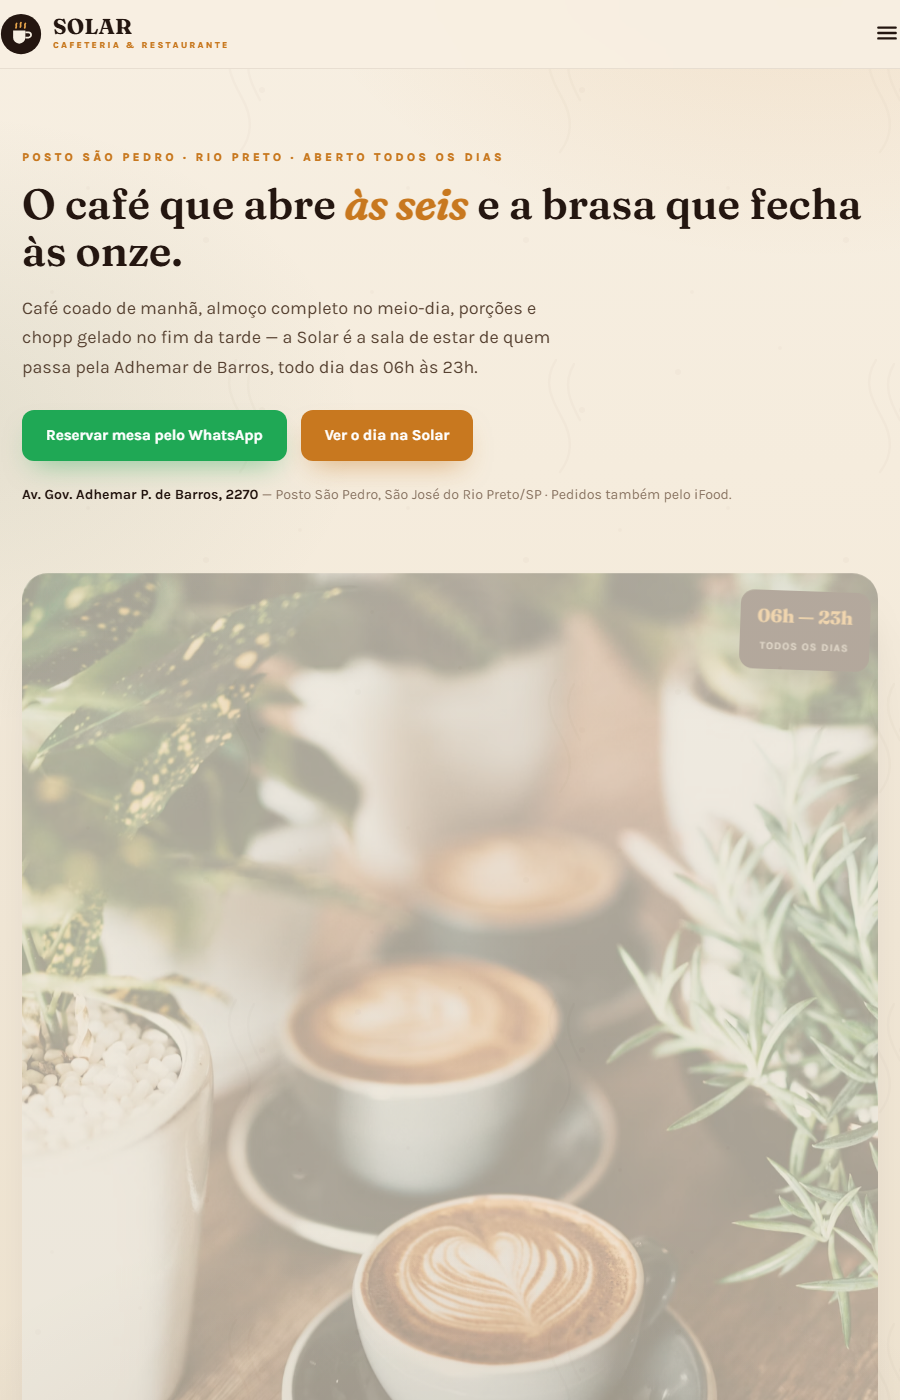
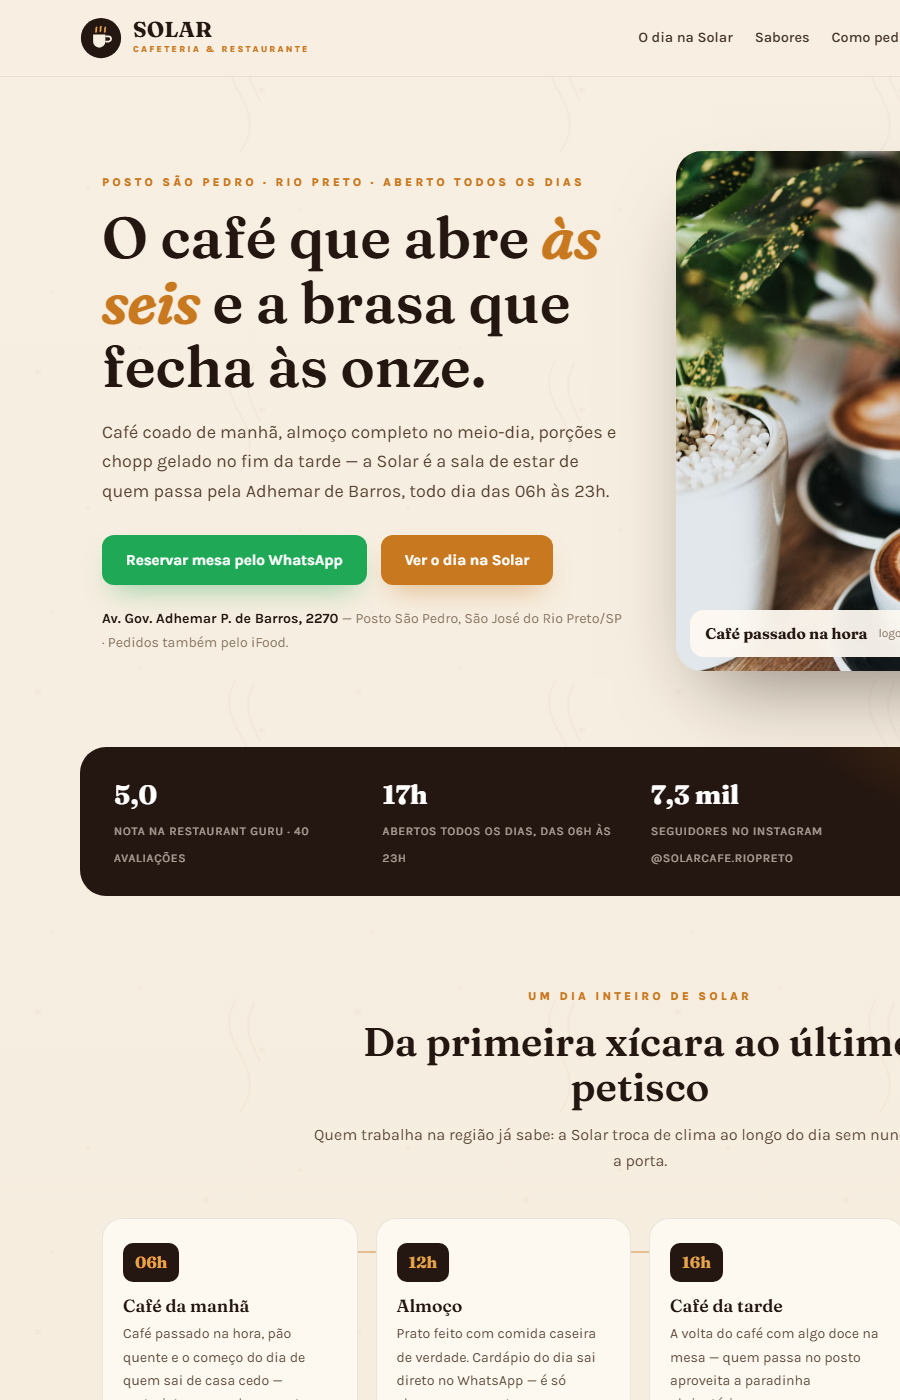
protos: publica sa-yakiniku,solar-cafeteria (gate R5: 7/10 8.5/10 )

diff --git a/p/solar-cafeteria/index.html b/p/solar-cafeteria/index.html
@@ -173,6 +173,7 @@ footer{padding:56px 0 40px;border-top:1px solid rgba(36,22,16,.1);margin-top:80p
 .aviso{background:rgba(36,22,16,.06);border:1px dashed rgba(36,22,16,.25);border-radius:12px;padding:12px 16px;font-size:.82rem;color:var(--suave);text-align:center}
 @media(max-width:860px){.foot-grid{grid-template-columns:1fr}}
 </style>
+<noscript><style>[data-reveal]{opacity:1!important;transform:none!important}</style></noscript>
 </head>
 <body>
 <div class="bg-layers"></div>
@@ -281,7 +282,7 @@ footer{padding:56px 0 40px;border-top:1px solid rgba(36,22,16,.1);margin-top:80p
 
 <section id="casa">
   <div class="container destaque">
-    <div class="foto" data-reveal><img src="https://upload.wikimedia.org/wikipedia/commons/thumb/0/03/Coffee_preparation_in_a_modern_cafe_with_steaming_equipment_and_skilled_barista_at_work_during_the_morning_rush_hour.jpg/1280px-Coffee_preparation_in_a_modern_cafe_with_steaming_equipment_and_skilled_barista_at_work_during_the_morning_rush_hour.jpg" alt="Balcão da cafeteria com máquina de espresso em funcionamento" loading="lazy"></div>
+    <div class="foto" data-reveal><img src="https://images.unsplash.com/photo-1445116572660-236099ec97a0?q=80&w=1200&auto=format&fit=crop" alt="Mesa de cafeteria junto à janela com cafeteira francesa, xícaras e plantas" loading="lazy"></div>
     <div>
       <span class="kicker">Mais que uma parada</span>
       <h2>O posto é de passagem. A Solar é de ficar.</h2>
@@ -297,7 +298,7 @@ footer{padding:56px 0 40px;border-top:1px solid rgba(36,22,16,.1);margin-top:80p
   </div>
 </section>
 
-<section>
+<section id="pedir">
   <div class="container">
     <div class="sec-head center">
       <span class="kicker">Simples assim</span>
@@ -319,8 +320,8 @@ footer{padding:56px 0 40px;border-top:1px solid rgba(36,22,16,.1);margin-top:80p
     </div>
     <div class="gal">
       <figure data-reveal><img src="https://images.unsplash.com/photo-1495474472287-4d71bcdd2085?q=80&w=900&auto=format&fit=crop" alt="Três mãos brindando com xícaras de café sobre mesa de madeira" loading="lazy"></figure>
-      <figure data-reveal><img src="https://images.unsplash.com/photo-1509042239860-f550ce710b93?q=80&w=900&auto=format&fit=crop" alt="Cafés com latte art sobre mesa com plantas" loading="lazy"></figure>
-      <figure data-reveal><img src="https://images.unsplash.com/photo-1544025162-d76694265947?q=80&w=900&auto=format&fit=crop" alt="Tábua de costela grelhada com fritas servida no bar" loading="lazy"></figure>
+      <figure data-reveal><img src="https://images.unsplash.com/photo-1484723091739-30a097e8f929?q=80&w=900&auto=format&fit=crop" alt="Torra francesa com banana, mirtilos e açúcar de confeiteiro no prato escuro" loading="lazy"></figure>
+      <figure data-reveal><img src="https://images.unsplash.com/photo-1555939594-58d7cb561ad1?q=80&w=900&auto=format&fit=crop" alt="Tábua com espetinhos de carne grelhada, legumes assados e molhos para dividir" loading="lazy"></figure>
     </div>
     <p class="illus" style="text-align:center;margin-top:14px">Fotos ilustrativas — substituídas por imagens reais da casa na versão final.</p>
   </div>
@@ -335,7 +336,7 @@ footer{padding:56px 0 40px;border-top:1px solid rgba(36,22,16,.1);margin-top:80p
 </div>
 </main>
 
-<footer id="pedir">
+<footer id="contato">
   <div class="container">
     <div class="foot-grid">
       <div>

diff --git a/p/sa-yakiniku/index.html b/p/sa-yakiniku/index.html
@@ -171,6 +171,7 @@ footer{border-top:1px solid rgba(217,164,65,.16);background:var(--tinta);padding
 [data-reveal]{opacity:0;transform:translateY(26px);transition:opacity .7s ease,transform .7s ease}
 [data-reveal].in{opacity:1;transform:none}
 </style>
+<noscript><style>[data-reveal]{opacity:1!important;transform:none!important}</style></noscript>
 </head>
 <body id="topo">
 <div class="bg-layers"></div><div class="bg-ondas"></div>
@@ -268,7 +269,7 @@ footer{border-top:1px solid rgba(217,164,65,.16);background:var(--tinta);padding
     <div class="fondue-txt" data-reveal>
       <span class="kicker">Temporada de outono/inverno</span>
       <h2>E quando esfria, entra o <em>fondue</em></h2>
-      <p style="color:var(--nublado);margin-top:12px">O menu sazonal de fondue do S.A Yakiniku virou manchete na imprensa gastronômica de Rio Preto — um programa a dois que lota mesa no fim de ano.</p>
+      <p style="color:var(--nublado);margin-top:12px">Na temporada de frio, o fondue do S.A vira programa a dois — e lota mesa.</p>
       <div class="preco">Fondue por <b>R$ 99,99</b></div>
       <p style="color:var(--nublado);margin-bottom:18px;font-size:.9rem">Valor da temporada — confirme disponibilidade e cardápio no WhatsApp da casa.</p>
       <a class="btn" href="https://wa.me/5517981356292?text=Ol%C3%A1!%20Vi%20o%20menu%20de%20fondue%20e%20quero%20reservar." target="_blank" rel="noopener">
